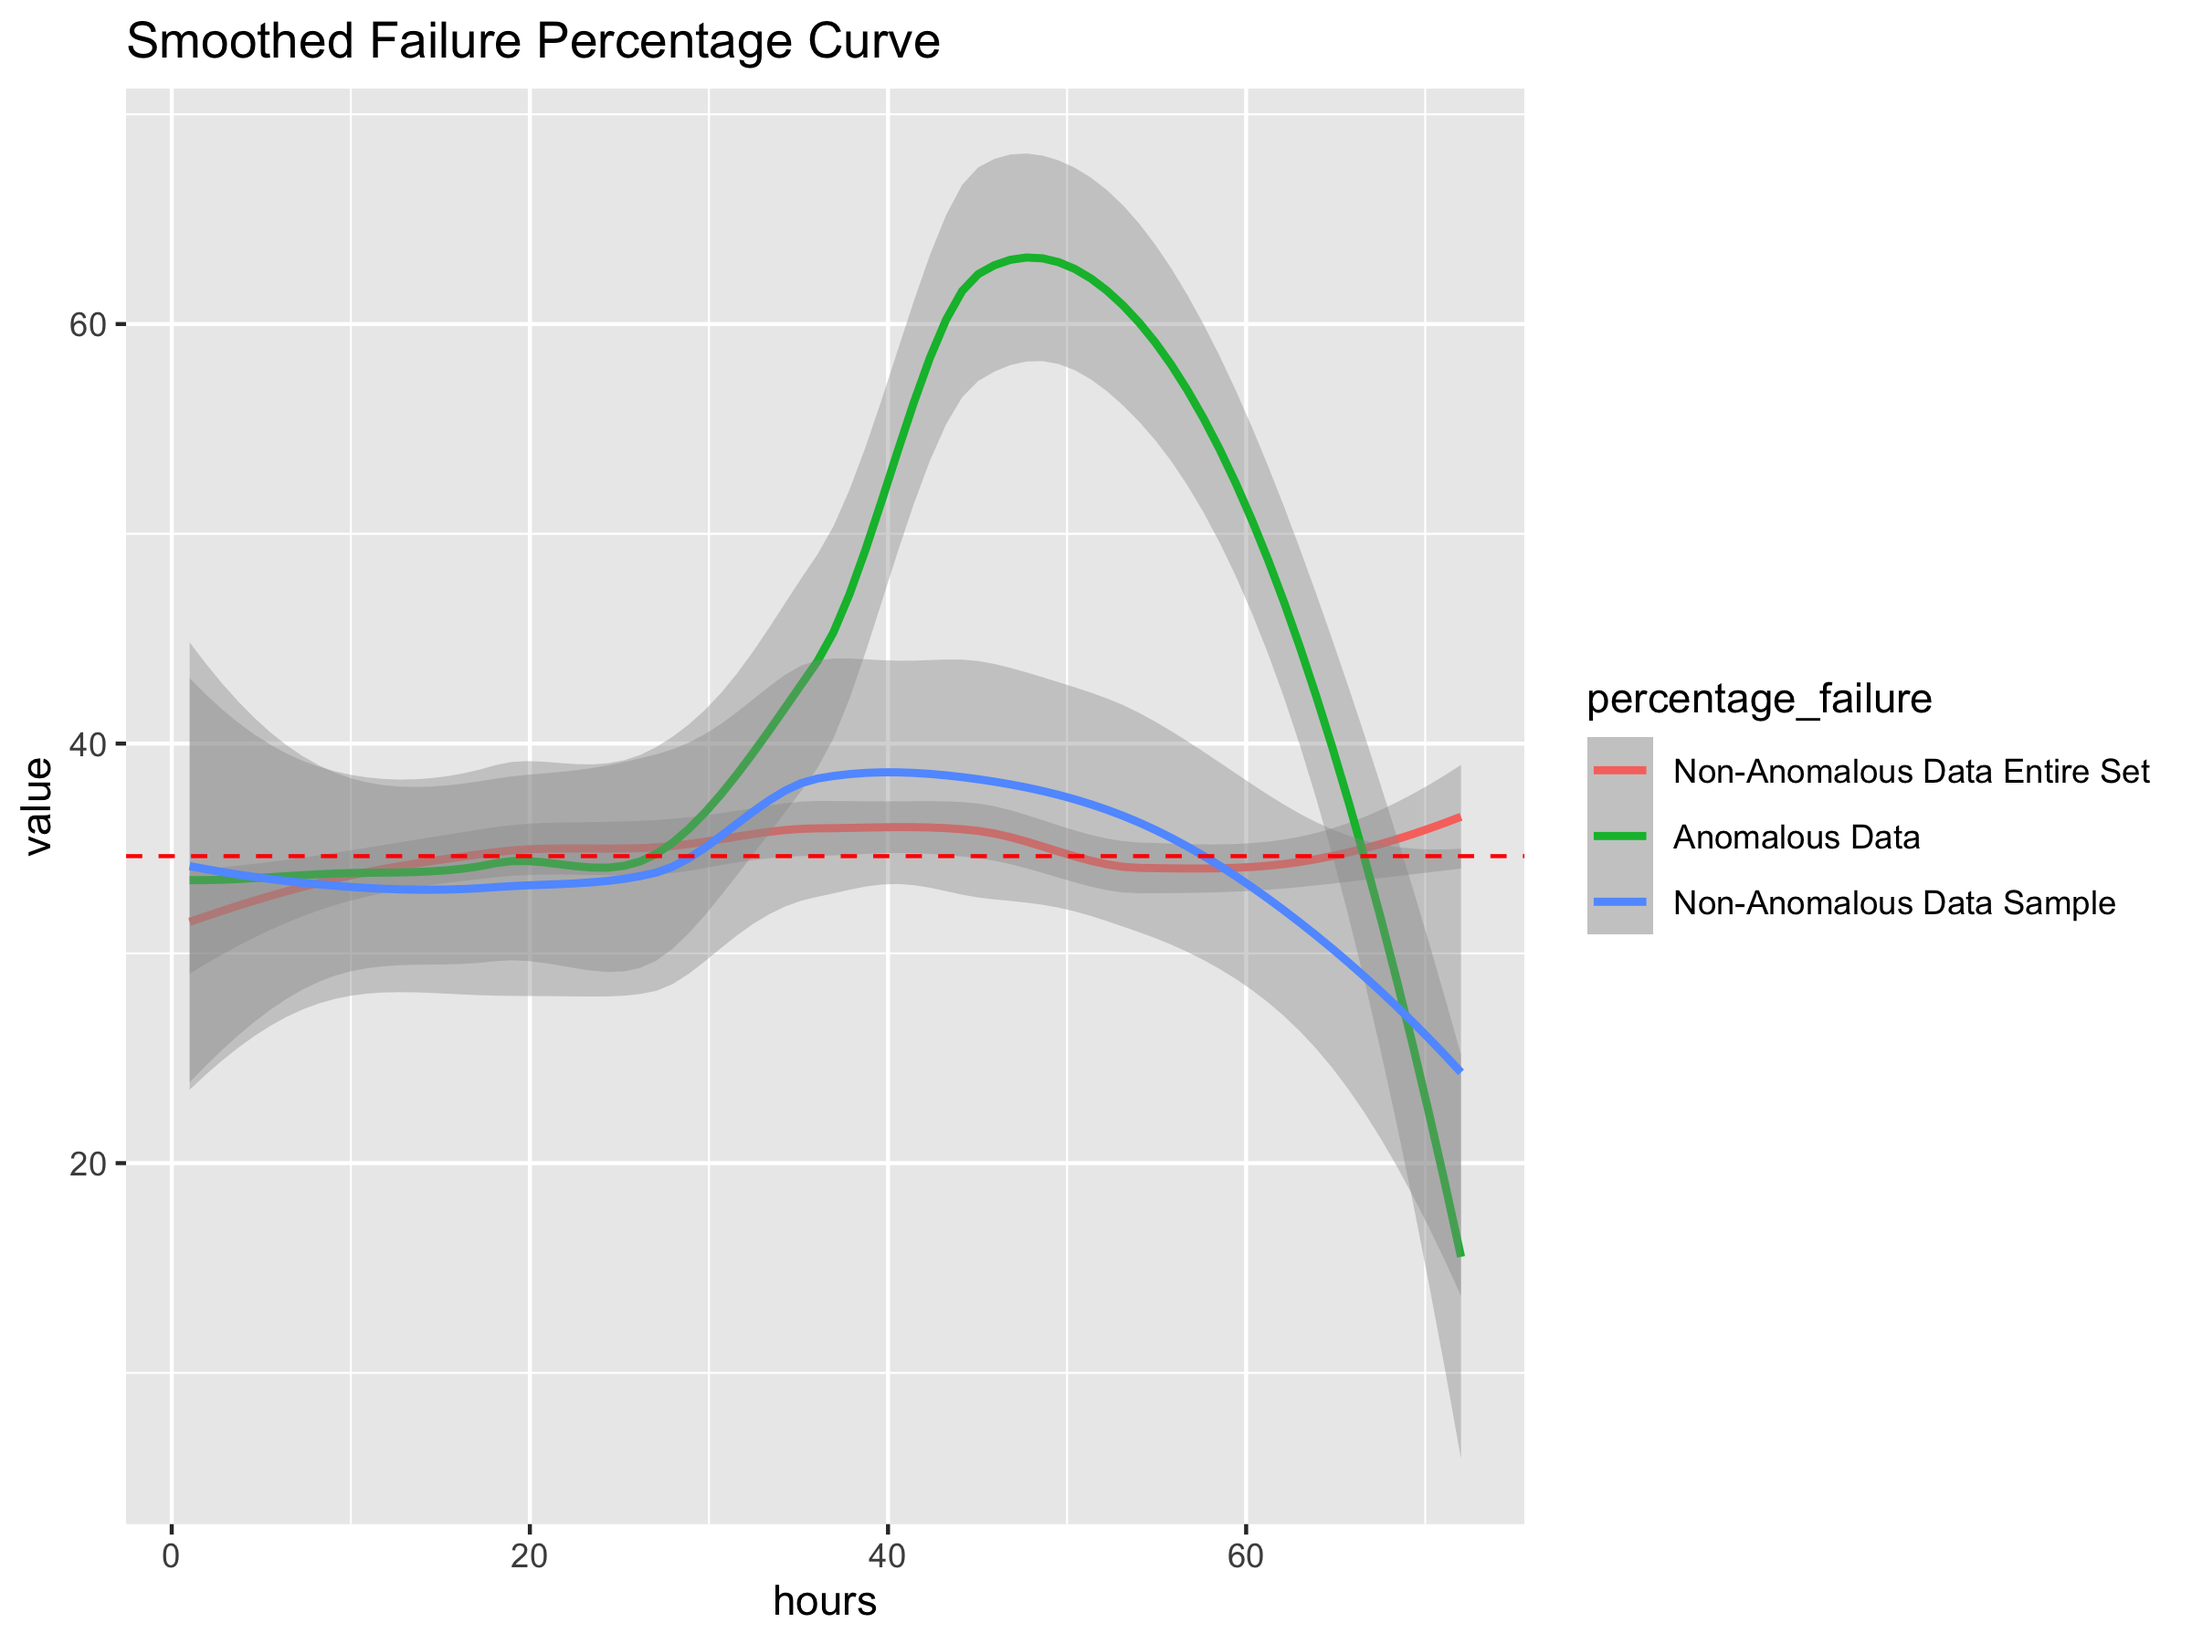
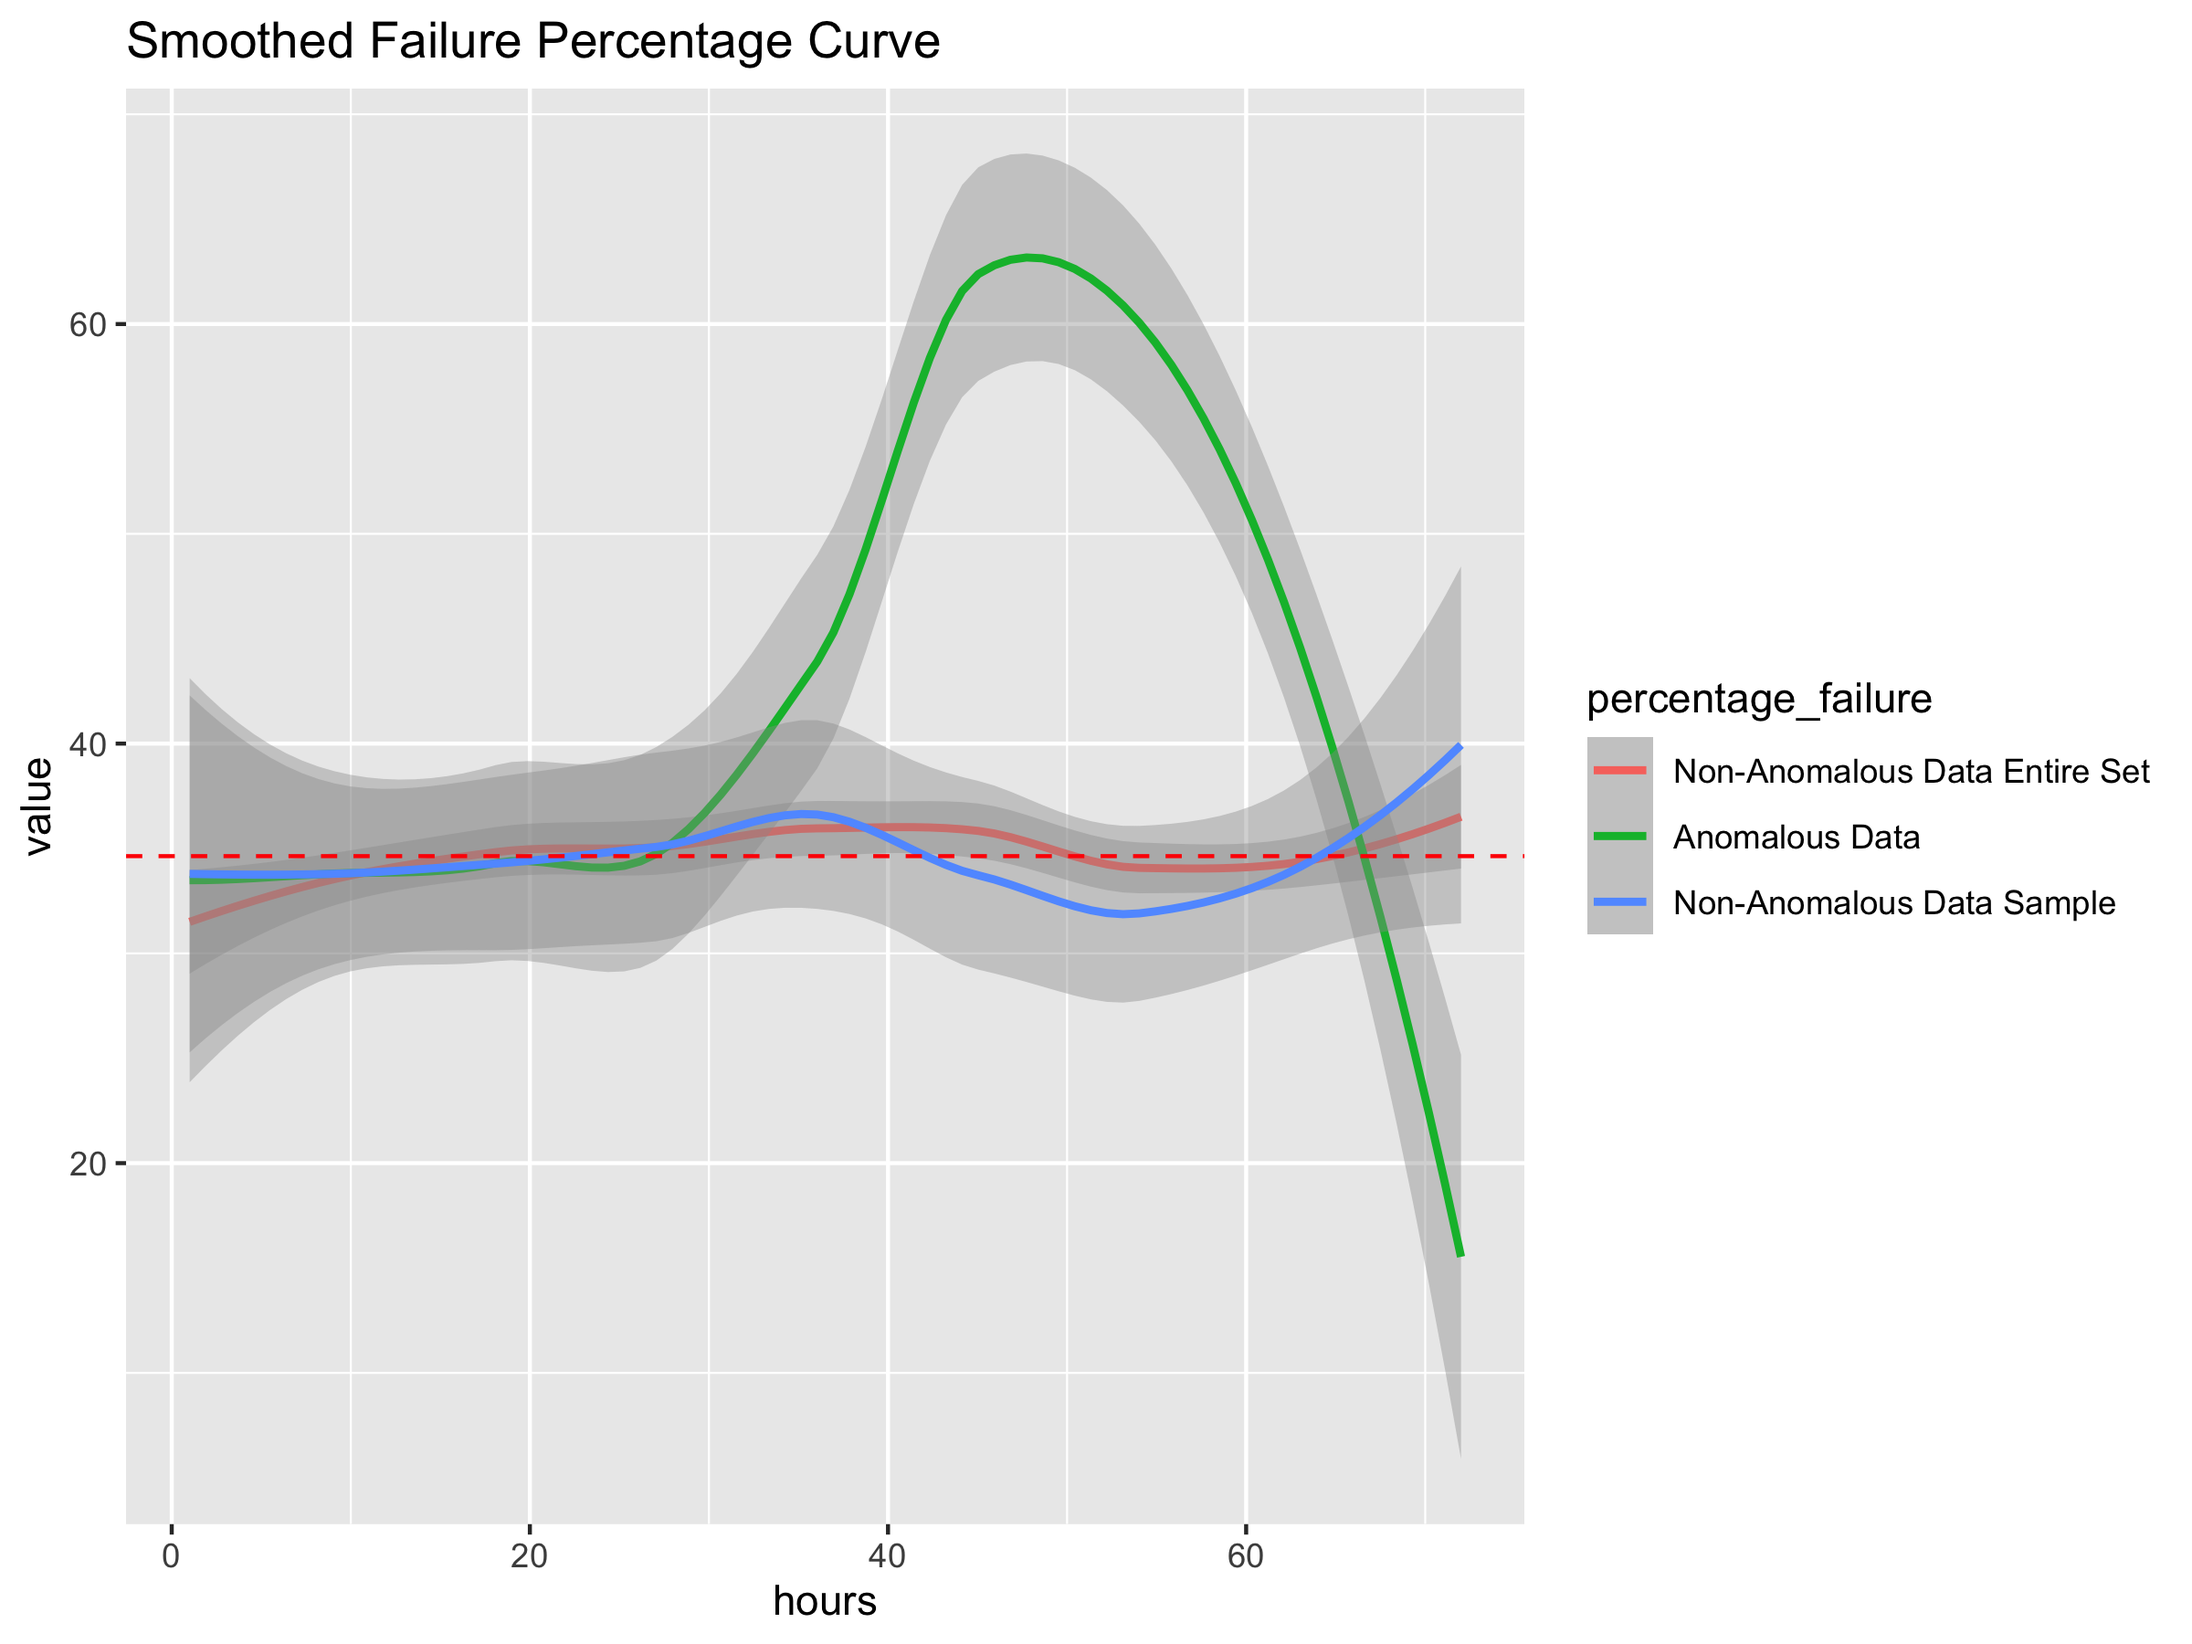
k

diff --git a/Anamoly_Detection/ReadMe.md b/Anamoly_Detection/ReadMe.md
@@ -725,13 +725,13 @@ compliment_sample_sizes <- t
 (sum(compliment_sample_sizes[,2]))
 ```
 
-    ## [1] 11753
+    ## [1] 12679
 
 ``` r
 cat("totall transactions in sample of observations from normal data of equal size to number of anamoly observations.",sum(compliment_sample_sizes[,2]))
 ```
 
-    ## totall transactions in sample of observations from normal data of equal size to number of anamoly observations. 11753
+    ## totall transactions in sample of observations from normal data of equal size to number of anamoly observations. 12679
 
 ``` r
 hours <- seq(1, 72, 1)
@@ -766,7 +766,7 @@ ggplot(data = long, aes(x = hours, y = value, group = percentage_failure, color 
 cat("totall transactions in sample of observations from normal data of equal size to number of anamoly observations.",sum(compliment_sample_sizes[,2]))
 ```
 
-    ## totall transactions in sample of observations from normal data of equal size to number of anamoly observations. 11753
+    ## totall transactions in sample of observations from normal data of equal size to number of anamoly observations. 12679
 
 To make a fair comparison of the anomalous data and normal data before
 the anomaly event, the blue line is the failure rate of the normal data
@@ -840,13 +840,8 @@ ok what if for each payment method we made a plot of a curve for each
 payment gate way that somehow visualized the combination of transaction
 volume and failure rate
 
-\<div\>
-
-\<a
-href=“[https://jacob-j-richards.shinyapps.io/shiny/”](https://jacob-j-richards.shinyapps.io/shiny/%22)
-target=”\_blank”\>Click here to use the Shiny App\</a\>
-
-\</div\>
+[shiny dashboard of failure rate and transaction
+volume](https://jacob-j-richards.shinyapps.io/shiny/ "open in a new tab")
 
 ``` r
 paytm_subset <- data[
